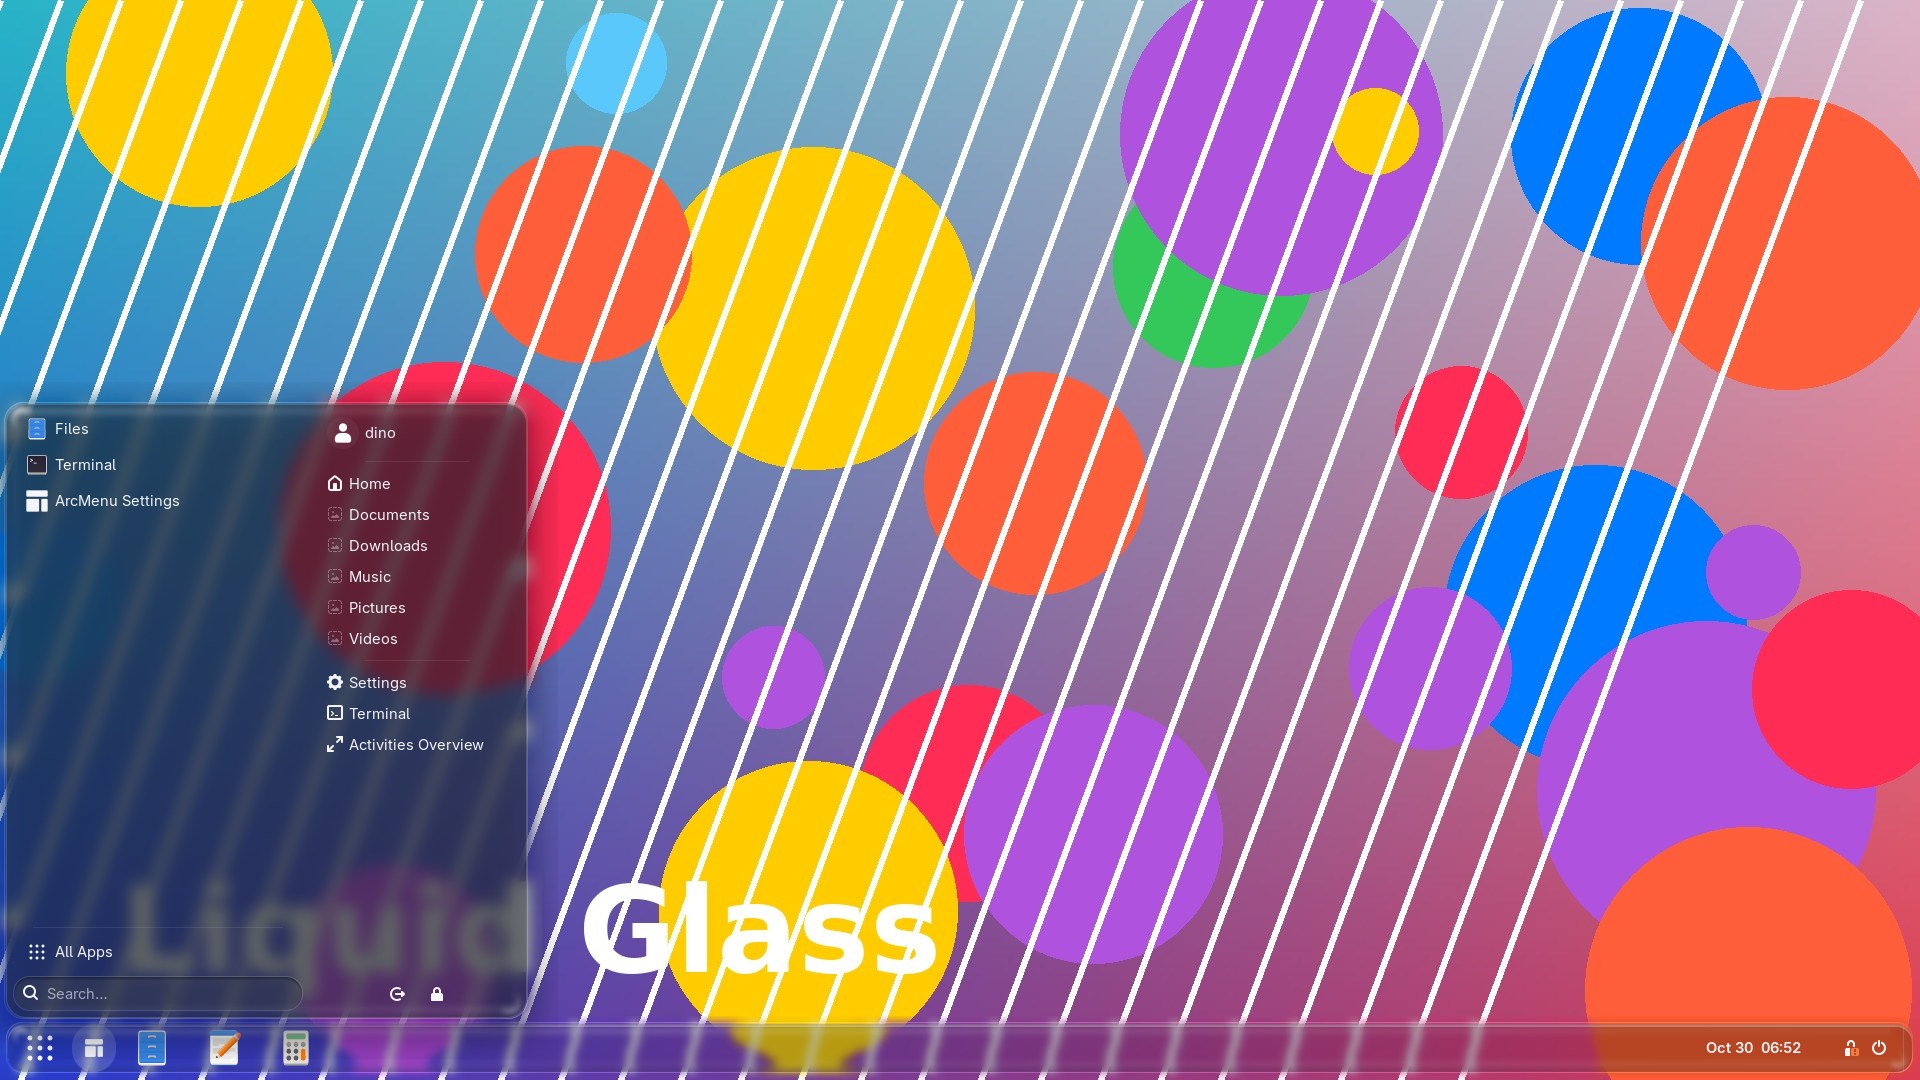
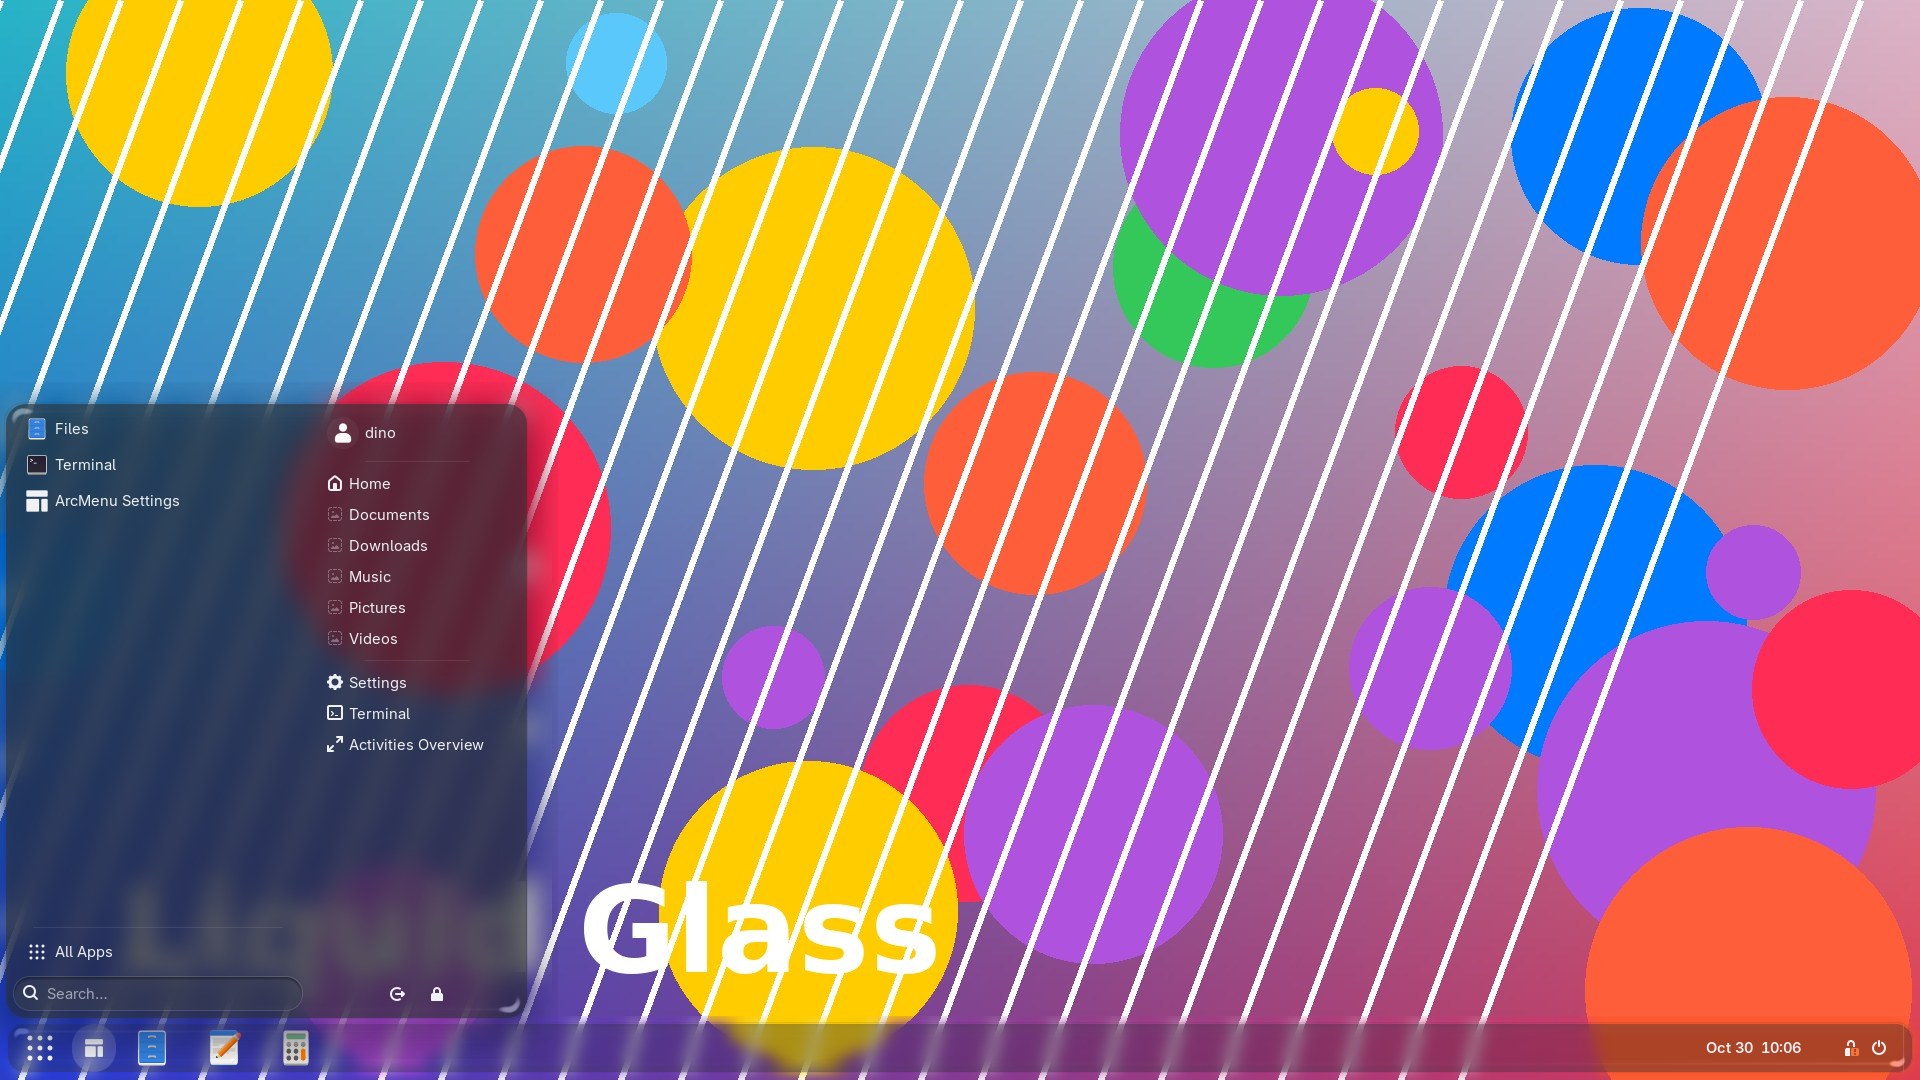
Realistic reflections instead of a glowing outline
- The glass mirrors a lit studio (soft box top left, dim ceiling, dark
  floor) weighted by Fresnel, so the rim is lit on one side and shaded on
  the other; the even rim line and fake sky are gone
- Reflections composite physically: what is under the glass is dimmed by
  the reflectance and the reflected light is added on top
- Beer-Lambert absorption now follows the slanted path through the edge,
  making it a shade darker and greener
- The theme drops its border line on the panel, menus, quick settings,
  banners, OSD and Alt+Tab when the glass draws their edges
- Same optics in the app preview

diff --git a/liquidglass/data/extension/liquid-glass@djshiye.github.io/glass.js b/liquidglass/data/extension/liquid-glass@djshiye.github.io/glass.js
@@ -12,9 +12,11 @@
 // - the Fresnel term (Schlick's approximation) decides how much light the
 //   surface reflects: little head-on, nearly all at grazing angles, which is
 //   what makes real glass edges glow;
-// - a key light gives a Blinn-Phong specular highlight on the facing rim and,
-//   after reflecting inside the glass, a dimmer one on the opposite rim;
-// - Beer-Lambert absorption darkens light a little along longer paths.
+// - what the surface mirrors is a studio in front of the screen (a bright soft
+//   box as the key light, a dim ceiling, a dark floor), so the rim is lit on
+//   the side facing the light and shaded on the other, and light reflected
+//   inside the glass shows faintly on the opposite rim;
+// - Beer-Lambert absorption darkens and greens the slanting paths through the edge.
 
 import Clutter from 'gi://Clutter';
 import Cogl from 'gi://Cogl';
@@ -44,7 +46,6 @@ uniform float hl;
 uniform float hl_x;
 uniform float hl_y;
 uniform float hl_falloff;
-uniform float rim_w;
 uniform float shadow;
 uniform float mode;              // 0 = glass and reflections, 1 = glass only, 2 = reflections only
 
@@ -86,6 +87,27 @@ vec2 throughGlass(vec3 N, float n, float th) {
 // Cauchy's equation, fitted so n(550 nm) = IOR; B grows with dispersion.
 float cauchy(float um, float B) {
     return IOR + B * (1.0 / (um * um) - 1.0 / 0.3025);
+}
+
+// The key light: a large soft box at lightAngle, low over the screen. It is
+// far brighter than the room (a real light source is), so even a 4% reflection
+// of it reads as a highlight; hl_falloff tightens it.
+vec3 softbox(vec3 R) {
+    vec3 K = normalize(vec3(hl_x, hl_y, 0.45));
+    float size = 0.12 / max(hl_falloff, 0.25);
+    return vec3(1.0, 0.98, 0.95) * 18.0 * smoothstep(1.0 - 2.0 * size, 1.0 - 0.15 * size, dot(R, K));
+}
+
+// The room in front of the screen, as the glass mirrors it: a dim ceiling,
+// a dark floor, a faint bounce card opposite the key light, and the key light.
+vec3 studio(vec3 R) {
+    if (R.z < 0.0)
+        return vec3(0.22);            // grazing: the glass mirrors itself and what lies behind it
+    float up = clamp(-R.y, 0.0, 1.0);
+    float room = 0.06 + 0.5 * up * up;
+    vec3 B = normalize(vec3(-hl_x, -hl_y, 0.45));
+    float bounce = 0.7 * smoothstep(0.75, 0.97, dot(R, B));
+    return vec3(0.92, 0.96, 1.0) * (room + bounce) + softbox(R);
 }
 
 void main() {
@@ -158,9 +180,12 @@ void main() {
         col.rgb = clamp(mix(vec3(l), col.rgb, saturation) * brightness, 0.0, 1.0);
         col.rgb = min(col.rgb, vec3(col.a));
 
-        // Beer-Lambert: a faint, slightly green absorption along the path in the glass.
-        float path = th / max(N.z, 0.2);
-        col.rgb *= exp(-vec3(0.0016, 0.0009, 0.0013) * path);
+        // Beer-Lambert: light crossing the rounded edge slants through more glass than
+        // light crossing the flat top, and soda-lime glass takes a little more red
+        // and blue than green, so the edge is a shade darker and greener.
+        vec3 Rt = refract(vec3(0.0, 0.0, -1.0), N, 1.0 / IOR);
+        float extra = th / max(-Rt.z, 0.2) - th;
+        col.rgb *= exp(-vec3(0.018, 0.008, 0.012) * extra);
 
         vec4 t = vec4(tint_r, tint_g, tint_b, 1.0) * tint_a;
         col = t + col * (1.0 - t.a);
@@ -170,28 +195,22 @@ void main() {
         return;
     }
 
-    // Reflection. Fresnel decides how much of the surroundings the surface
-    // mirrors; the surroundings are a soft sky, brighter above.
-    float cosi = N.z;
-    float F = F0 + (1.0 - F0) * pow(1.0 - cosi, 5.0);
+    // Reflection. Fresnel decides how much of the room in front of the screen
+    // the surface mirrors: 4% head-on, nearly all of it at grazing angles. What
+    // it mirrors is the studio below: bright where it faces the key light, dark
+    // where it faces the floor, so the rim is lit on one side and shaded on the
+    // other instead of glowing evenly all round.
+    float F = F0 + (1.0 - F0) * pow(1.0 - N.z, 5.0);
     vec3 Rf = reflect(vec3(0.0, 0.0, -1.0), N);
-    float sky = 0.35 + 0.65 * clamp(0.5 - 0.5 * Rf.y, 0.0, 1.0);
-    // A low key light from lightAngle, far brighter than the sky, so the rim
-    // facing it catches a sharp highlight.
-    vec3 L = normalize(vec3(hl_x, hl_y, 0.2));
-    vec3 H = normalize(L + vec3(0.0, 0.0, 1.0));
-    float shin = 6.0 * hl_falloff * hl_falloff;
-    float norm = (shin + 8.0) / 25.0;               // energy-conserving Blinn-Phong
-    float spec = pow(max(dot(N, H), 0.0), shin) * norm;
-    // The same light, reflected inside the glass, leaves through the opposite rim.
-    vec3 Ni = vec3(-N.xy, N.z);
-    float inner = pow(max(dot(Ni, H), 0.0), shin) * norm * (1.0 - F) * 0.5;
-    // A crisp line where the surface turns vertical: there glass reflects almost everything.
-    float band = 1.0 - smoothstep(0.0, max(rim_w, 0.5), inside);
-    float facing = pow(abs(dot(n, vec2(hl_x, hl_y))), hl_falloff);
-    float k = hl * (0.5 * F * sky + 22.0 * F * (spec + inner) + band * (0.15 + 0.6 * facing));
-    k = clamp(k, 0.0, 1.0);
-    col = vec4(k) + col * (1.0 - k);
+    vec3 refl = studio(Rf) * F;
+    // Light from the key that refracts in, reflects off the far side of the glass
+    // and comes back out lights the opposite rim, much dimmer.
+    vec3 Ri = reflect(vec3(0.0, 0.0, -1.0), vec3(-N.xy, N.z));
+    refl += softbox(Ri) * (1.0 - F) * 0.05;
+    float a = clamp(F * hl, 0.0, 1.0);
+    // Premultiplied: the surface lets (1 - a) of what is under it through and adds
+    // its reflection, which may be brighter than its own alpha (it is emitted light).
+    col = vec4(min(col.rgb * (1.0 - a) + refl * hl, vec3(1.0)), col.a * (1.0 - a) + a);
 
     cogl_color_out = col * cov * cogl_color_in.a;
 }
@@ -224,7 +243,6 @@ export const DEFAULT_LOOK = Object.freeze({
     highlight: 0.55,    // 0..1
     lightAngle: -125,   // degrees, -90 = from the top
     falloff: 2.0,
-    rim: 1.5,           // px
     shadow: 0,          // 0..1, drawn by the pane itself
 });
 
@@ -372,7 +390,6 @@ class LiquidGlassPane extends Clutter.Actor {
             hl: Math.max(0, Math.min(1, L.highlight)),
             hl_x: Math.cos(a), hl_y: Math.sin(a),
             hl_falloff: Math.max(0.25, L.falloff),
-            rim_w: Math.max(0, L.rim),
             shadow: this._layer === LAYERS.reflections ? 0 : Math.max(0, Math.min(1, L.shadow)),
             mode: this._layer,
         });

diff --git a/liquidglass/data/extension/liquid-glass@djshiye.github.io/config.js b/liquidglass/data/extension/liquid-glass@djshiye.github.io/config.js
@@ -28,7 +28,7 @@ function cleanLook(raw, base) {
     const ranges = {
         blur: [0, 100], refraction: [0, 80], bend: [0, 80], depth: [0, 1], dispersion: [0, 1],
         saturation: [0, 3], brightness: [0, 2], highlight: [0, 1], lightAngle: [-360, 360],
-        falloff: [0.25, 8], rim: [0, 8], shadow: [0, 1],
+        falloff: [0.25, 8], shadow: [0, 1],
     };
     for (const [k, [lo, hi]] of Object.entries(ranges))
         out[k] = num(raw[k], base[k], lo, hi);

diff --git a/liquidglass/render/shell.py b/liquidglass/render/shell.py
@@ -18,6 +18,9 @@ from ..palette import Tokens
 _TEMPLATE = Path(__file__).resolve().parent.parent / "data/shell/glass.css.tpl"
 
 
+_NONE = "rgba(0,0,0,0)"
+
+
 def radii(t: Tokens) -> dict[str, int]:
     """One radius scale shared by the CSS and the Dash to Panel / ArcMenu keys,
     so the blur clip always matches the painted surface."""
@@ -87,7 +90,11 @@ def values(t: Tokens) -> dict[str, str]:
         "dialog": surf["dialog"].css, "osd": surf["osd"].css,
         "card": t.card.css, "card_hover": card_hover.css, "card_active": card_active.css,
         "hover": t.hover.css, "active": t.active.css, "selected": selected.css,
-        "rim": t.highlight.css, "edge": t.edge.css, "divider": t.divider.css, "shadow": t.shadow.css,
+        "rim": t.highlight.css, "edge": t.edge.css,
+        # Glass surfaces get their edge from the extension's optics, not a drawn line.
+        "glass_edge": _NONE if t.glass_menu_edges else t.edge.css,
+        "glass_rim": _NONE if t.glass_menu_edges else t.highlight.css,
+        "divider": t.divider.css, "shadow": t.shadow.css,
         "fg": t.fg.css, "fg_dim": t.fg_dim.css, "fg_faint": t.fg_faint.css,
         "accent": acc.css, "accent_fg": t.accent_fg.css, "accent_text": t.accent_text.css,
         "accent_edge": acc.mix(WHITE, 0.35).with_alpha(0.7).css,
@@ -141,7 +148,7 @@ def dtp_values(t: Tokens) -> dict[str, str]:
         "trans-panel-opacity": f"{bg.a:.3f}",
         "trans-use-dynamic-opacity": "false",
         "trans-use-custom-gradient": "false",
-        "trans-use-border": "true",
+        "trans-use-border": "false" if t.glass_panel_edges else "true",
         "trans-border-width": "1",
         "trans-border-use-custom-color": "true",
         "trans-border-custom-color": f"'{t.edge.css}'",
@@ -177,7 +184,7 @@ def arcmenu_values(t: Tokens) -> dict[str, str]:
         "override-menu-theme": "true",
         "menu-background-color": f"'{bg.css}'",
         "menu-foreground-color": f"'{fg.css}'",
-        "menu-border-color": f"'{t.edge.css}'",
+        "menu-border-color": f"'{_NONE if t.glass_menu_edges else t.edge.css}'",
         "menu-border-width": "1",
         "menu-border-radius": str(r["r_menu"]),
         "menu-separator-color": f"'{t.divider.css}'",

diff --git a/tests/test_shell.py b/tests/test_shell.py
@@ -276,3 +276,24 @@ def test_glass_running_reads_the_shell_state(fake_env, monkeypatch):
                             ("({},)", 0, False), ("", 1, False)):
         monkeypatch.setattr(fake_env, "run", lambda argv, timeout=30, o=out, c=code: RunResult(c, o, ""))
         assert ts.GlassEffects.running(fake_env) is want
+
+
+def test_glass_surfaces_drop_the_drawn_outline():
+    def block(css, sel):
+        i = css.index("\n" + sel + " {")
+        return css[i:css.index("}", i)]
+
+    on = palette.build(Settings(), dark=True)
+    css = rs.render_css(on)
+    for sel in (".quick-settings", ".osd-window", ".switcher-list", ".notification-banner"):
+        assert "border: 1px solid rgba(0,0,0,0)" in block(css, sel), sel
+    # Surfaces the extension doesn't cover keep theirs.
+    assert on.edge.css in block(css, ".workspace-switcher, .resize-popup, .screenshot-ui-panel, #LookingGlassDialog")
+    assert rs.dtp_values(on)["trans-use-border"] == "false"
+    assert "rgba(0,0,0,0)" in rs.arcmenu_values(on)["menu-border-color"]
+
+    off = palette.build(Settings(glass_menus=False, glass_panel=False), dark=True)
+    assert on.edge.css in block(rs.render_css(off), ".quick-settings")
+    assert rs.dtp_values(off)["trans-use-border"] == "true"
+    no_ext = palette.build(Settings(targets={"glass": False}), dark=True)
+    assert on.edge.css in block(rs.render_css(no_ext), ".quick-settings")

diff --git a/liquidglass/palette.py b/liquidglass/palette.py
@@ -67,6 +67,9 @@ class Tokens:
     dispersion: float      # 0..1
     vibrancy: float        # saturation multiplier, 1 = unchanged
     glare: float           # directional highlight along the rim, 0..1
+    # The glass extension draws these surfaces' edges itself, so the theme leaves them unbordered.
+    glass_panel_edges: bool
+    glass_menu_edges: bool
 
     def to_json(self) -> str:
         """Public token file for apps that read it (see docs/TOKENS.md)."""
@@ -181,4 +184,6 @@ def build(settings: Settings, *, dark: bool, system_accent: str | None = None) -
         dispersion=0.0 if s.reduce_transparency else round(s.dispersion * lerp(1.0, 0.35, f), 3),
         vibrancy=round(1.0 + s.vibrancy * lerp(1.0, 0.6, f), 3),
         glare=round(s.highlight * lerp(0.7, 0.3, f), 3),
+        glass_panel_edges=s.glass_panel and s.target_enabled("glass") and not s.reduce_transparency,
+        glass_menu_edges=s.glass_menus and s.target_enabled("glass") and not s.reduce_transparency,
     )

diff --git a/liquidglass/render/glass.py b/liquidglass/render/glass.py
@@ -46,7 +46,6 @@ def config(s: Settings, t: Tokens) -> dict:
         "highlight": t.glare,
         "lightAngle": -125,            # from the top left, as in the preview
         "falloff": 2.0,
-        "rim": 1.5,
         "shadow": 0,
     }
     return {

diff --git a/README.md b/README.md
@@ -100,11 +100,15 @@ top edge rounds off, like a glass paperweight. The optics follow real glass:
 - **Dispersion:** the index changes with wavelength by Cauchy's equation. The shader traces five
   wavelengths from blue to red, so the edge splits light into a faint rainbow, as a prism does.
 - **Reflection:** Fresnel's equations (Schlick's form) decide how much the surface mirrors: about 4%
-  head-on and nearly all of it at grazing angles, which is why real glass edges glow.
-- **Highlights:** a low light from the top left gives a sharp highlight where the rim faces it. The
-  same light, reflected inside the glass, comes out dimmer on the opposite rim.
-- **Absorption:** by the Beer-Lambert law, light that travels further through the glass comes out
-  very slightly darker.
+  head-on and nearly all of it at grazing angles. What it mirrors is a lit studio in front of the
+  screen: a bright soft box at the top left, a dim ceiling and a dark floor. So the rim catches a
+  highlight on the side facing the light and goes dark on the side facing the floor, as real glass
+  does, instead of glowing evenly all round. Light reflected inside the glass shows faintly on the
+  opposite rim.
+- **Absorption:** by the Beer-Lambert law, light that slants through the rounded edge crosses more
+  glass and comes out a shade darker and greener, like the edge of a pane of window glass.
+- **No drawn outlines:** where the glass is on, the theme leaves the panel and menus without a
+  border line, because the optics draw the edge.
 
 Reflections are drawn above each menu, because light reflects off the top of the glass, over its
 tint. The surface shape is ported from Kyant's

diff --git a/docs/TOKENS.md b/docs/TOKENS.md
@@ -48,6 +48,7 @@ Colours are `#RRGGBBAA`. Numbers are plain JSON numbers. New keys may appear in 
 | `radius`, `radius_small` | corner radii in px |
 | `blur_radius`, `blur_brightness` | the blur behind glass |
 | `lens_width`, `lens_bend`, `dispersion`, `vibrancy`, `glare` | the glass lens: rounded-edge width and slab thickness in px, rainbow edge 0..1, colour boost (1 = none), rim highlight 0..1 |
+| `glass_panel_edges`, `glass_menu_edges` | true when the Liquid Glass extension draws the panel's or the menus' edges, so a theme should leave them without a border line |
 | `terminal_opacity` | terminal background opacity |
 | `panel_floating`, `panel_margin` | panel style |
 | `blur_app_windows` | whether app windows get blur behind them |
